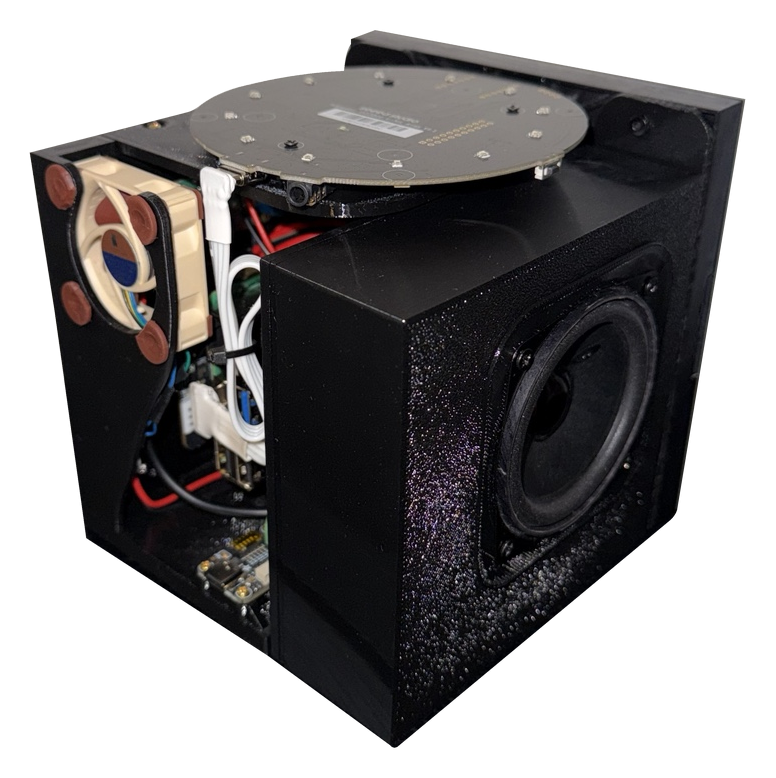
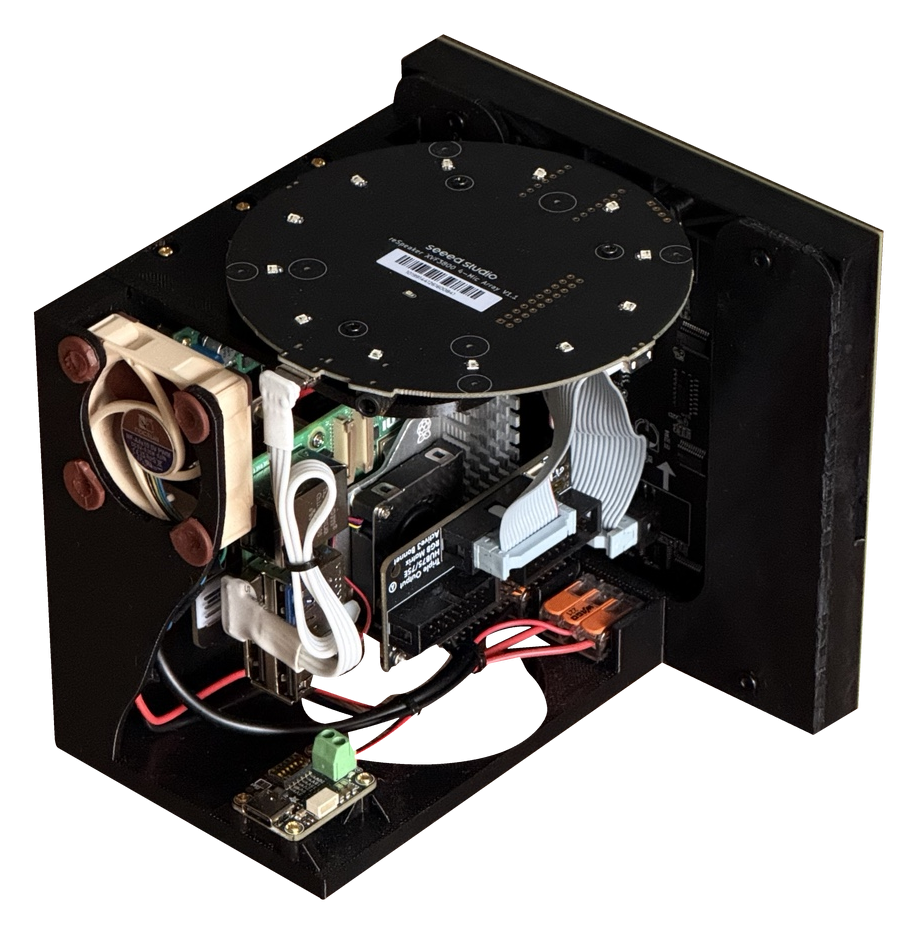
Update Cube gallery with built and internal photos

diff --git a/Cube/index.html b/Cube/index.html
@@ -293,9 +293,13 @@
                 <img src="../images/Cube Internal Body_Components.png" alt="" width="2048" height="2048" loading="lazy" decoding="async">
                 <span>Assembly</span>
               </button>
-              <button class="cube-design-gallery__thumbnail" type="button" aria-pressed="false" aria-controls="cube-design-viewer" data-design-alt="Photo of the built Cube with its outer shell removed, showing the 3D-printed internal body, circuit boards, cooling fan and wiring">
-                <img src="../images/cube-final.png" alt="" width="669" height="712" loading="lazy" decoding="async">
+              <button class="cube-design-gallery__thumbnail" type="button" aria-pressed="false" aria-controls="cube-design-viewer" data-design-alt="Photo of the built Cube with its outer shell removed, showing the speaker mounted in its printed acoustic chamber, microphone array and cooling fan">
+                <img src="../images/cube-final-speaker.png" alt="" width="927" height="1027" loading="lazy" decoding="async">
                 <span>Built Cube</span>
+              </button>
+              <button class="cube-design-gallery__thumbnail" type="button" aria-pressed="false" aria-controls="cube-design-viewer" data-design-alt="Photo of the built Cube with its outer shell removed, showing the 3D-printed internal body, circuit boards, cooling fan and wiring">
+                <img src="../images/cube-final.png" alt="" width="918" height="934" loading="lazy" decoding="async">
+                <span>Cube Internals</span>
               </button>
               <button class="cube-design-gallery__thumbnail" type="button" aria-pressed="false" aria-controls="cube-design-viewer" data-design-alt="Fusion 360 render of the Cube's internal body without components, showing mounts, cable paths and ventilation">
                 <img src="../images/Cube Internal Body.png" alt="" width="2048" height="2048" loading="lazy" decoding="async">
